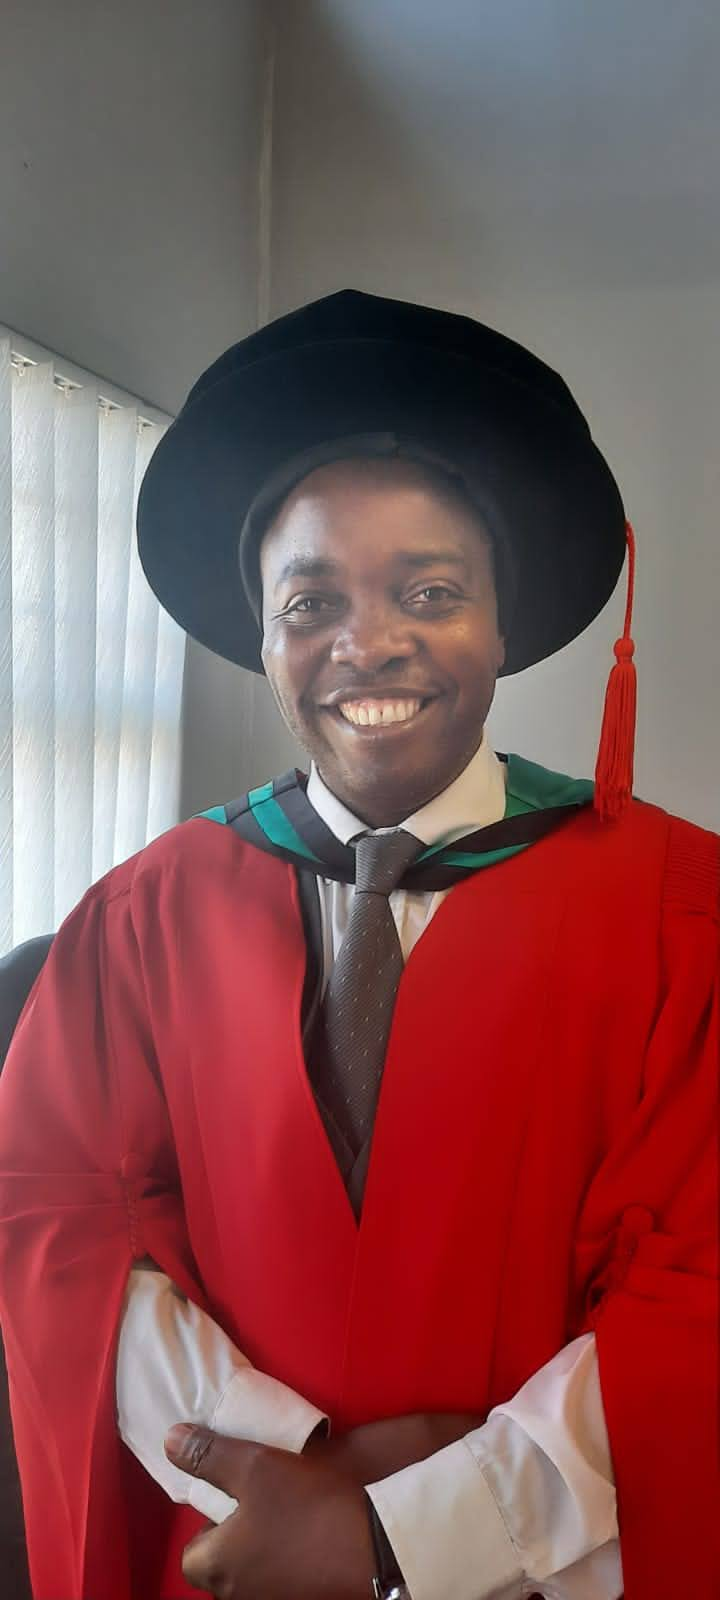
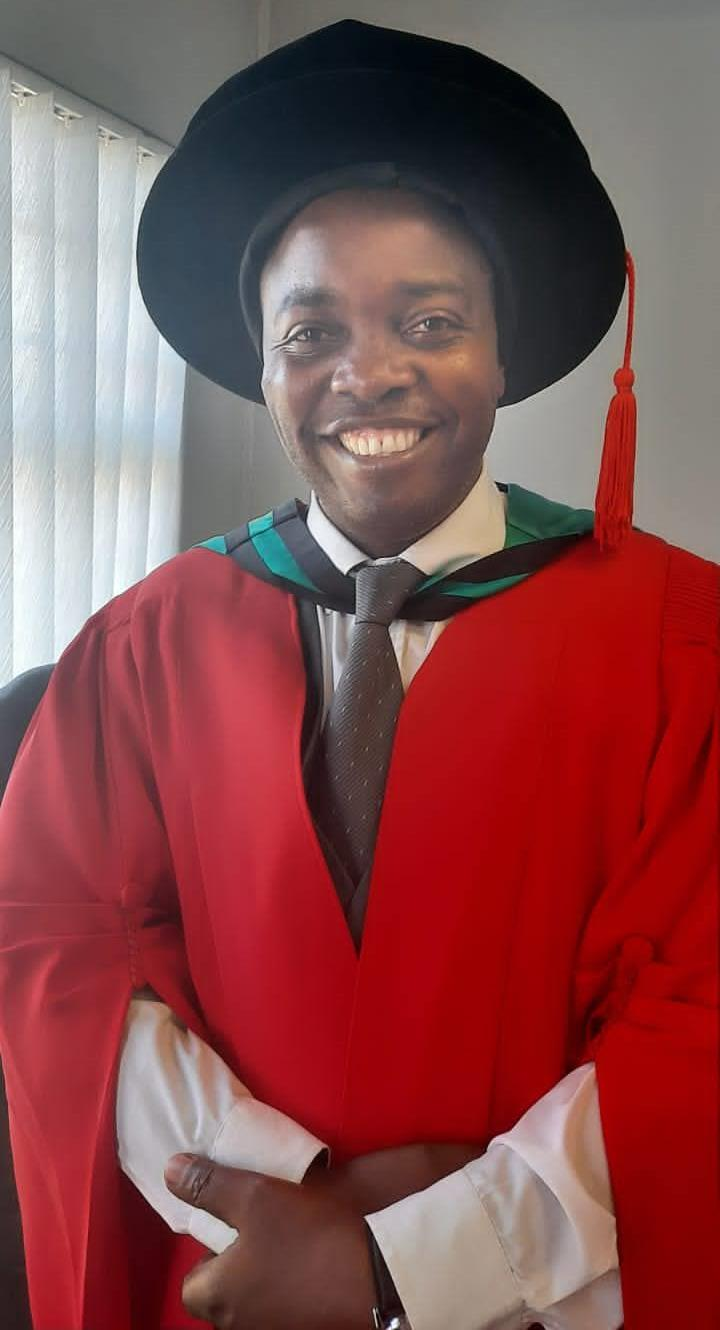
Adds div parallax.

diff --git a/style.css b/style.css
@@ -38,7 +38,7 @@ body {
 	grid-template-columns: repeat(2, 1fr);
 }
 .intro-text {
-	padding-left: 20px;
+	padding-left: 50px;
 }
 .intro-text h1 {
 	padding-top: 200px;
@@ -51,8 +51,14 @@ body {
 	padding-top: 40px;
 	color: gray;
 }
-.intro-img {
-	max-height: 1000px;
+.intro-img-container {
+	background: url("./img/grad.jpg");
+	background-size: 50%;
+	background-attachment: fixed;
+	background-repeat: no-repeat;
+	background-position: top right;
+	height: 1000px;
+	width: 100%;
 	padding-top: 50px;
 }
 
@@ -525,7 +531,6 @@ p {
 
 	#intro .intro-img {
 		height: 450px;
-		margin-left: -10px;
 	}
 
 	.cont-contactBtn {

diff --git a/index.html b/index.html
@@ -120,9 +120,7 @@
 					<p>Come Explore</p>
 				</div>
 
-				<div class="intro-img-container">
-					<img src="img/grad.jpg" class="intro-img" alt="intro" />
-				</div>
+				<div class="intro-img-container"></div>
 			</div>
 		</section>
 
